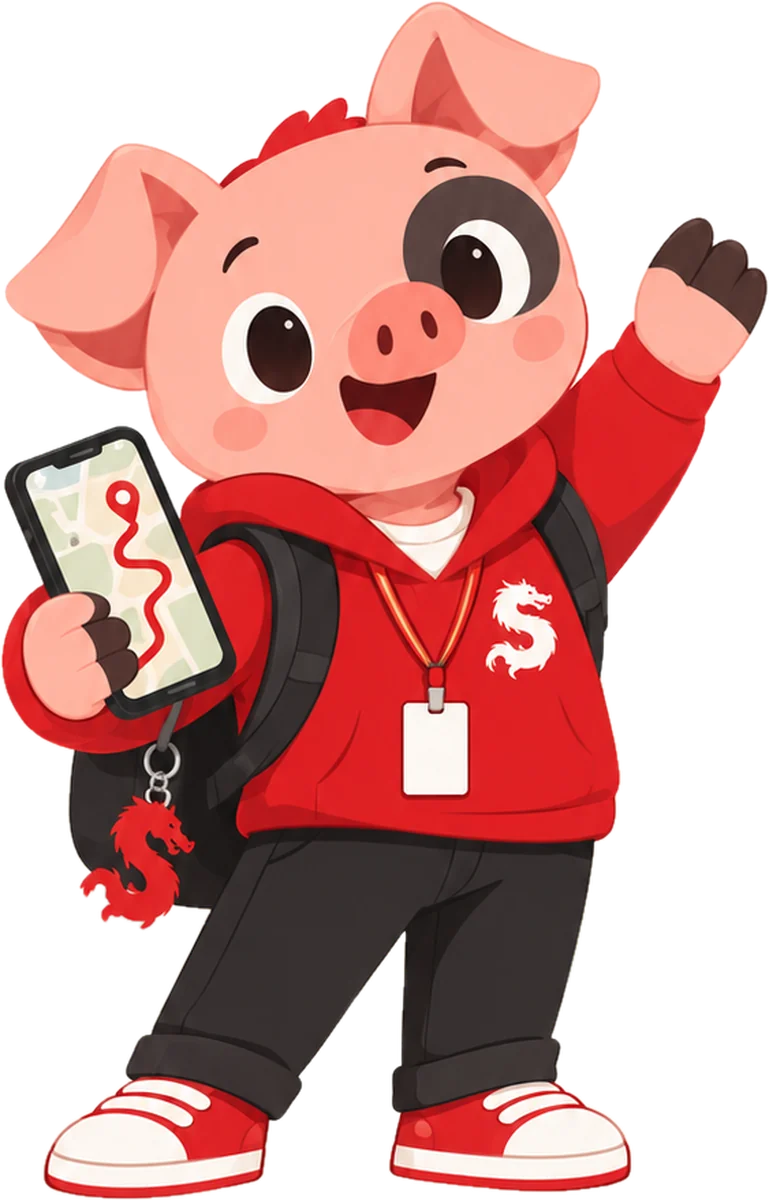
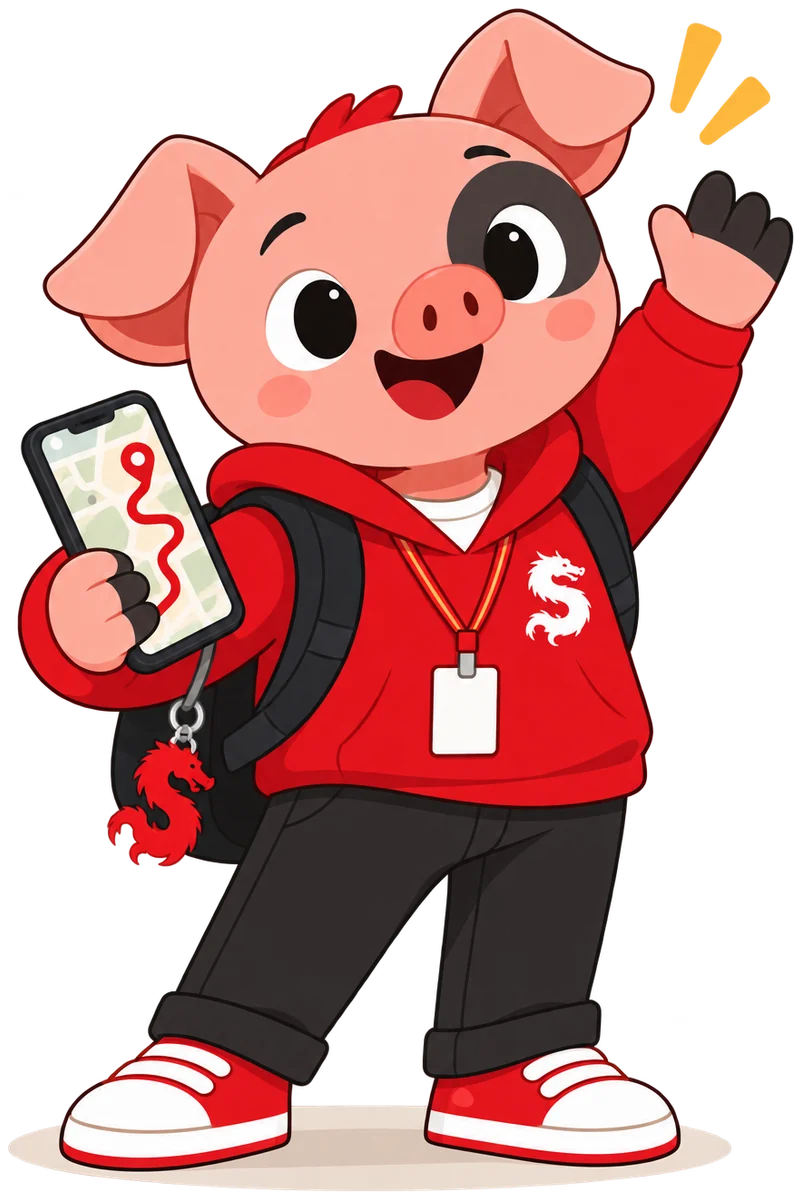
Usa las imágenes finales de Gastón estudiante generadas con GPT Image
Codex generó las capas de la carga, las poses de inicio, destino,
navegación y llegada, las de búsqueda y GPS, el ícono y el camino de
Explorar a pie; scripts/ui-v3-assets.py las exporta desde los originales.
Arbustos de la carga más pequeños y desenfocados, como en el mockup. Se
quitan las poses del Gastón 3D que ya no se usan y su script de
exportación, que las habría vuelto a escribir.

diff --git a/src/styles.css b/src/styles.css
@@ -1251,17 +1251,11 @@ button {
   }
 }
 
-/* Gastón: short gestures that play once; scripts/mascota-web.py frames every pose in the same 512 px square. */
+/* Gastón: short gestures that play once on the 512 px poses. */
 .gaston { transform-origin: 50% 92%; pointer-events: none; object-fit: contain; }
-.gaston--asomado { animation: gaston-asomarse 700ms ease-out; }
-.gaston--guia { animation: gaston-indicar 950ms ease-in-out; }
-.gaston--logrado { animation: gaston-celebrar 1100ms ease-out; }
 .gaston--buscando { animation: gaston-pensar 1300ms ease-in-out; }
 .gaston--ubicacion { animation: gaston-escuchar 1000ms ease-in-out; }
 .gaston-pausado .gaston { animation-play-state: paused; }
-@keyframes gaston-asomarse { from { opacity: 0; transform: translateY(6px); } }
-@keyframes gaston-indicar { 45% { transform: translateX(4px); } }
-@keyframes gaston-celebrar { 38% { transform: translateY(-6px) scale(1.02); } 70% { transform: scale(.99); } }
 @keyframes gaston-pensar { 45% { transform: rotate(-1.8deg); } }
 @keyframes gaston-escuchar { 45% { transform: rotate(-1.5deg); } }
 

diff --git a/index.html b/index.html
@@ -28,7 +28,8 @@
       .wordmark span { padding-left: 4cqw; border-left: .6cqw solid #e11b22; font-size: 4.6cqw; letter-spacing: .01em; }
       .splash-caption { margin: 0; font: 400 4.2cqw/1.4 'Lato', system-ui, sans-serif; color: #686462; }
       .splash-mascot { position: absolute; left: 50.5%; bottom: 19.5%; height: 52%; width: auto; transform: translateX(-50%); transform-origin: 50% 100%; animation: splash-hello 2.4s ease-in-out .3s infinite; }
-      .splash-bush { position: absolute; bottom: 0; width: 34%; height: auto; }
+      /* The bushes stand close to the camera: smaller than drawn and slightly out of focus, like in the mockup. */
+      .splash-bush { position: absolute; bottom: -1%; width: 27%; height: auto; filter: blur(1.5px) saturate(.75); opacity: .9; }
       .splash-bush.left { left: 0; }
       .splash-bush.right { right: 0; }
       .splash-status { position: absolute; bottom: 7.5%; left: 0; right: 0; display: flex; flex-direction: column; align-items: center; gap: 3.4cqw; }

diff --git a/src/components/Mascot.tsx b/src/components/Mascot.tsx
@@ -1,12 +1,9 @@
 const MOTION = {
-  asomado: 'asomado',
-  guiando: 'guia',
-  logrado: 'logrado',
   buscando: 'buscando',
   ubicacion: 'ubicacion',
 } as const
 
-/** The high-resolution PNGs stay in the kit; the app loads only the current 512px pose (see scripts/mascota-web.py). */
+/** Each pose is a 512 px square with Gastón standing on the same baseline (see scripts/ui-v3-assets.py). */
 export function Mascot({ pose, className = '' }: { pose: keyof typeof MOTION; className?: string }) {
   return <img className={`gaston gaston--${MOTION[pose]} ${className}`} src={`/mascota/gaston/${pose}.webp`} width={512} height={512} decoding="async" alt="" aria-hidden="true" />
 }

diff --git a/scripts/ui-v3-assets.py b/scripts/ui-v3-assets.py
@@ -1,0 +1,238 @@
+#!/usr/bin/env python3
+"""Exporta assets UI v3 desde PNG originales intactos. Requiere Pillow.
+
+Uso desde el repositorio: python3 scripts/ui-v3-assets.py
+No genera imágenes, no refleja, no segmenta ni modifica los originales.
+"""
+from __future__ import annotations
+
+import argparse
+import json
+import math
+import re
+from pathlib import Path
+from PIL import Image, ImageDraw, ImageFont, ImageOps
+
+THRESHOLD = 16
+MARGIN = 8
+LANCZOS = Image.Resampling.LANCZOS
+WARM = '#FAF9F6'
+RESULTS = []
+
+
+def visible_box(im):
+    box = im.getchannel('A').point(lambda a: 255 if a > THRESHOLD else 0).getbbox()
+    if box is None:
+        raise ValueError('Imagen sin silueta visible')
+    return box
+
+
+def source(root, name):
+    path = root / 'referencias/ui-v3/originales' / f'{name}.png'
+    with Image.open(path) as im:
+        rgba = im.convert('RGBA')
+    if name != 'carga-fondo':
+        assert rgba.getchannel('A').getextrema()[0] == 0, f'{path}: falta alpha real'
+    return rgba
+
+
+def export(root, relative, im, *, opaque=False, quality=86, expected=None):
+    path = root / relative
+    path.parent.mkdir(parents=True, exist_ok=True)
+    if opaque:
+        bg = Image.new('RGBA', im.size, WARM)
+        bg.alpha_composite(im.convert('RGBA'))
+        im = bg.convert('RGB')
+    if path.suffix == '.webp':
+        im.save(path, 'WEBP', quality=quality, method=6, exact=True)
+    else:
+        im.save(path, 'PNG', optimize=True)
+    with Image.open(path) as check:
+        assert check.size == (expected or im.size), f'{relative}: tamaño incorrecto'
+        rgba = check.convert('RGBA')
+        alpha = rgba.getchannel('A')
+        corners = [alpha.getpixel(p) for p in [(0, 0), (check.width-1, 0),
+                   (0, check.height-1), (check.width-1, check.height-1)]]
+        if opaque:
+            assert alpha.getextrema() == (255, 255), f'{relative}: debe ser opaco'
+        else:
+            assert 'A' in check.getbands(), f'{relative}: falta canal alpha'
+            assert corners == [0]*4, f'{relative}: esquinas no transparentes {corners}'
+            assert alpha.getextrema()[1] > 16, f'{relative}: vacío'
+        RESULTS.append({'archivo': relative, 'tamano': list(check.size),
+                        'opaco': opaque, 'alpha_esquinas': corners,
+                        'bbox_alpha_mayor_16': list(visible_box(rgba)),
+                        'bytes': path.stat().st_size})
+
+
+def trimmed(im, *, width=None, height=None, bottom_margin=8, cut_y=None):
+    # El corte de tarjetas es rectangular, en coordenadas del PNG original.
+    if cut_y is not None:
+        im = im.crop((0, 0, im.width, cut_y))
+    content = im.crop(visible_box(im))
+    if width is not None:
+        content_width = width - 2*MARGIN
+        content_height = round(content.height*content_width/content.width)
+    elif height is not None:
+        content_height = height-MARGIN-bottom_margin
+        content_width = round(content.width*content_height/content.height)
+    else:
+        raise ValueError('Indicar ancho o alto')
+    content = content.resize((content_width, content_height), LANCZOS)
+    # El alpha suave original dentro del bbox se conserva; no hay extracción.
+    out = Image.new('RGBA', (content_width+2*MARGIN,
+                            content_height+MARGIN+bottom_margin))
+    out.alpha_composite(content, (MARGIN, MARGIN))
+    return out
+
+
+def mascot_square(im):
+    content = im.crop(visible_box(im))
+    content.thumbnail((428, 428), LANCZOS)
+    out = Image.new('RGBA', (512, 512))
+    # y=471 es la fila inferior visible; 472 es el límite exclusivo.
+    out.alpha_composite(content, ((512-content.width)//2, 472-content.height))
+    return out
+
+
+# SVG escrito a mano. Solo path/circle; sin filtros, imágenes ni texto.
+SVG = '''<svg xmlns="http://www.w3.org/2000/svg" viewBox="0 0 300 100" fill="none">
+  <path fill="#FBE3DF" d="M 12 87 C 12 79 18 73 27 74 C 25 60 43 56 49 68 C 57 60 70 66 69 76 C 79 75 85 81 85 87 Z"/>
+  <path fill="#FBE3DF" d="M 97 25 C 98 18 105 16 111 18 C 111 6 130 4 133 17 C 142 14 149 19 149 25 Z"/>
+  <path fill="#FBE3DF" d="M 194 96 C 194 88 201 83 210 86 C 210 71 230 68 236 81 C 244 72 261 77 262 89 C 275 86 282 90 282 96 Z"/>
+  <path fill="#FBE3DF" d="M 259 46 C 259 39 265 36 271 38 C 271 29 284 26 289 37 C 295 35 299 40 299 46 Z"/>
+  <path fill="#F6C9C4" d="M 35 100 C 49 79 76 72 110 69 C 138 66 151 61 139 56 C 114 46 124 38 152 32 C 173 27 197 28 219 24 L 222 31 C 198 36 177 34 160 38 C 141 42 145 45 163 51 C 192 61 167 75 125 80 C 94 84 76 89 69 100 Z"/>
+  <path fill="#E11B22" stroke="#FFFFFF" stroke-width="6" stroke-linejoin="round" d="M 94 52 C 94 31 126 31 126 52 C 126 63 110 78 110 78 C 110 78 94 63 94 52 Z"/>
+  <circle cx="110" cy="51" r="6" fill="#FFFFFF"/>
+  <path fill="#E11B22" stroke="#FFFFFF" stroke-width="6" stroke-linejoin="round" d="M 211 19 C 211 -2 243 -2 243 19 C 243 30 227 45 227 45 C 227 45 211 30 211 19 Z"/>
+  <circle cx="227" cy="18" r="6" fill="#FFFFFF"/>
+</svg>
+'''
+
+
+def svg_preview():
+    """Rasteriza solo los comandos M/L/C/Z de ESTE SVG para la hoja de revisión.
+
+    No crea un asset raster alternativo ni necesita navegador/cairo/node.
+    """
+    import xml.etree.ElementTree as ET
+    scale = 3
+    out = Image.new('RGBA', (300*scale, 100*scale))
+    draw = ImageDraw.Draw(out)
+    for element in ET.fromstring(SVG):
+        attrs = element.attrib
+        if element.tag.endswith('circle'):
+            x, y, r = [float(attrs[k])*scale for k in ('cx', 'cy', 'r')]
+            draw.ellipse((x-r, y-r, x+r, y+r), fill=attrs['fill'])
+            continue
+        tokens = re.findall(r'[MLCZ]|-?\d+(?:\.\d+)?', attrs['d'])
+        points = []
+        i = 0
+        while i < len(tokens):
+            command = tokens[i]; i += 1
+            if command in ('M', 'L'):
+                points.append((float(tokens[i]), float(tokens[i+1]))); i += 2
+            elif command == 'C':
+                p0 = points[-1]
+                p1, p2, p3 = [(float(tokens[i+j]), float(tokens[i+j+1])) for j in (0, 2, 4)]
+                i += 6
+                for step in range(1, 33):
+                    t = step/32; s = 1-t
+                    points.append(tuple(s**3*p0[k]+3*s*s*t*p1[k]+3*s*t*t*p2[k]+t**3*p3[k] for k in (0, 1)))
+            elif command == 'Z':
+                points.append(points[0])
+            else:
+                raise ValueError(command)
+        points = [(x*scale, y*scale) for x, y in points]
+        draw.polygon(points, fill=attrs['fill'])
+        if 'stroke' in attrs:
+            width = round(float(attrs['stroke-width'])*scale)
+            draw.line(points, fill=attrs['stroke'], width=width, joint='curve')
+            # El borde blanco se dibuja antes del círculo blanco central.
+    return out
+
+
+def font(size):
+    for path in ('/System/Library/Fonts/Supplemental/Arial.ttf',
+                 '/usr/share/fonts/truetype/dejavu/DejaVuSans.ttf'):
+        if Path(path).exists():
+            return ImageFont.truetype(path, size)
+    return ImageFont.load_default(size=size)
+
+
+def review(root):
+    all_paths = [r['archivo'] for r in RESULTS] + ['public/ui/explorar-a-pie.svg']
+    cell_w, cell_h, columns = 350, 370, 4
+    sheet = Image.new('RGB', (columns*cell_w, 74+math.ceil(len(all_paths)/columns)*cell_h), '#888888')
+    d = ImageDraw.Draw(sheet)
+    d.text((22, 15), 'USFQ Explora · Assets UI v3', font=font(26), fill='white')
+    d.text((22, 49), 'Finales sobre gris medio · alpha original · sin reflejos horizontales', font=font(15), fill='white')
+    for i, relative in enumerate(all_paths):
+        if relative.endswith('.svg'):
+            im = svg_preview()
+        else:
+            im = Image.open(root/relative).convert('RGBA')
+        size = im.size
+        im.thumbnail((320, 295), LANCZOS)
+        x = (i % columns)*cell_w
+        y = 74+(i//columns)*cell_h
+        sheet.paste(im, (x+(cell_w-im.width)//2, y+(298-im.height)//2), im)
+        label = str(Path(relative).relative_to('public'))
+        d.text((x+12, y+307), label, font=font(17), fill='white')
+        d.text((x+12, y+333), f'{size[0]} × {size[1]} px' if not relative.endswith('.svg') else 'SVG · viewBox 0 0 300 100', font=font(15), fill='#eeeeee')
+    sheet.save(root/'referencias/ui-v3/revision.png', optimize=True)
+
+
+def main():
+    parser = argparse.ArgumentParser(description=__doc__)
+    parser.add_argument('--root', type=Path, default=Path(__file__).resolve().parents[1])
+    root = parser.parse_args().root.resolve()
+    (root/'referencias/ui-v3').mkdir(parents=True, exist_ok=True)
+    RESULTS.clear()
+    export(root, 'public/ui/carga-gaston.webp', trimmed(source(root, 'carga-gaston'), height=1200), expected=None)
+    bg = ImageOps.fit(source(root, 'carga-fondo'), (1080, 1920), LANCZOS, centering=(0.5, 0.5))
+    export(root, 'public/ui/carga-fondo.webp', bg, opaque=True, quality=82, expected=(1080, 1920))
+    bushes = source(root, 'carga-arbustos')
+    split = bushes.width//2
+    # Separación rectangular de la pareja original, jamás espejo horizontal.
+    for name, box in [('izq', (0, 0, split, bushes.height)),
+                      ('der', (split, 0, bushes.width, bushes.height))]:
+        export(root, f'public/ui/carga-arbustos-{name}.webp', trimmed(bushes.crop(box), width=600))
+    # Líneas de corte anotadas al revisar los PNG; son límites exclusivos.
+    # El original no se modifica, y no hay máscaras de silueta.
+    cuts = json.loads((root/'referencias/ui-v3/originales/cortes.json').read_text())
+    for name in ('gaston-asomado', 'gaston-destino'):
+        export(root, f'public/ui/{name}.webp', trimmed(source(root, name), width=600, bottom_margin=0, cut_y=cuts[name]))
+    for name in ('gaston-guia', 'gaston-llegada'):
+        export(root, f'public/ui/{name}.webp', source(root, name).resize((480, 480), LANCZOS), expected=(480, 480))
+    for name in ('buscando', 'ubicacion'):
+        pose = mascot_square(source(root, name))
+        export(root, f'public/mascota/gaston/{name}.webp', pose, expected=(512, 512))
+        box = RESULTS[-1]['bbox_alpha_mayor_16']
+        assert box[2]-box[0] <= 428 and box[3]-box[1] <= 428
+        assert box[3] == 472, f'{name}: el borde inferior debe estar en y=471'
+        assert abs((box[0]+box[2])/2-256) <= 1
+    head = source(root, 'cabeza')
+    export(root, 'public/mascota/gaston/cabeza.webp', trimmed(head, width=512))
+    content = head.crop(visible_box(head))
+    icon = Image.new('RGBA', (32, 32))
+    small = ImageOps.contain(content, (30, 30), LANCZOS)
+    icon.alpha_composite(small, ((32-small.width)//2, (32-small.height)//2))
+    export(root, 'public/mascota/gaston/favicon.png', icon, expected=(32, 32))
+    apple = Image.new('RGBA', (180, 180), WARM)
+    small = ImageOps.contain(content, (153, 153), LANCZOS)
+    apple.alpha_composite(small, ((180-small.width)//2, (180-small.height)//2))
+    export(root, 'public/mascota/gaston/apple-touch-icon.png', apple, opaque=True, expected=(180, 180))
+    (root/'public/ui/explorar-a-pie.svg').write_text(SVG, encoding='utf-8')
+    review(root)
+    report = {'archivos_raster': RESULTS, 'svg': 'public/ui/explorar-a-pie.svg',
+              'reglas': {'alpha_umbral': THRESHOLD, 'margen_px_finales': MARGIN,
+                        'webp_quality': 86, 'webp_method': 6, 'fondo_quality': 82}}
+    (root/'referencias/ui-v3/validacion.json').write_text(json.dumps(report, indent=2)+'\n')
+    for row in RESULTS:
+        print(f"OK {row['archivo']} {row['tamano'][0]}x{row['tamano'][1]}")
+    print('OK SVG y referencias/ui-v3/revision.png')
+
+
+if __name__ == '__main__':
+    main()
